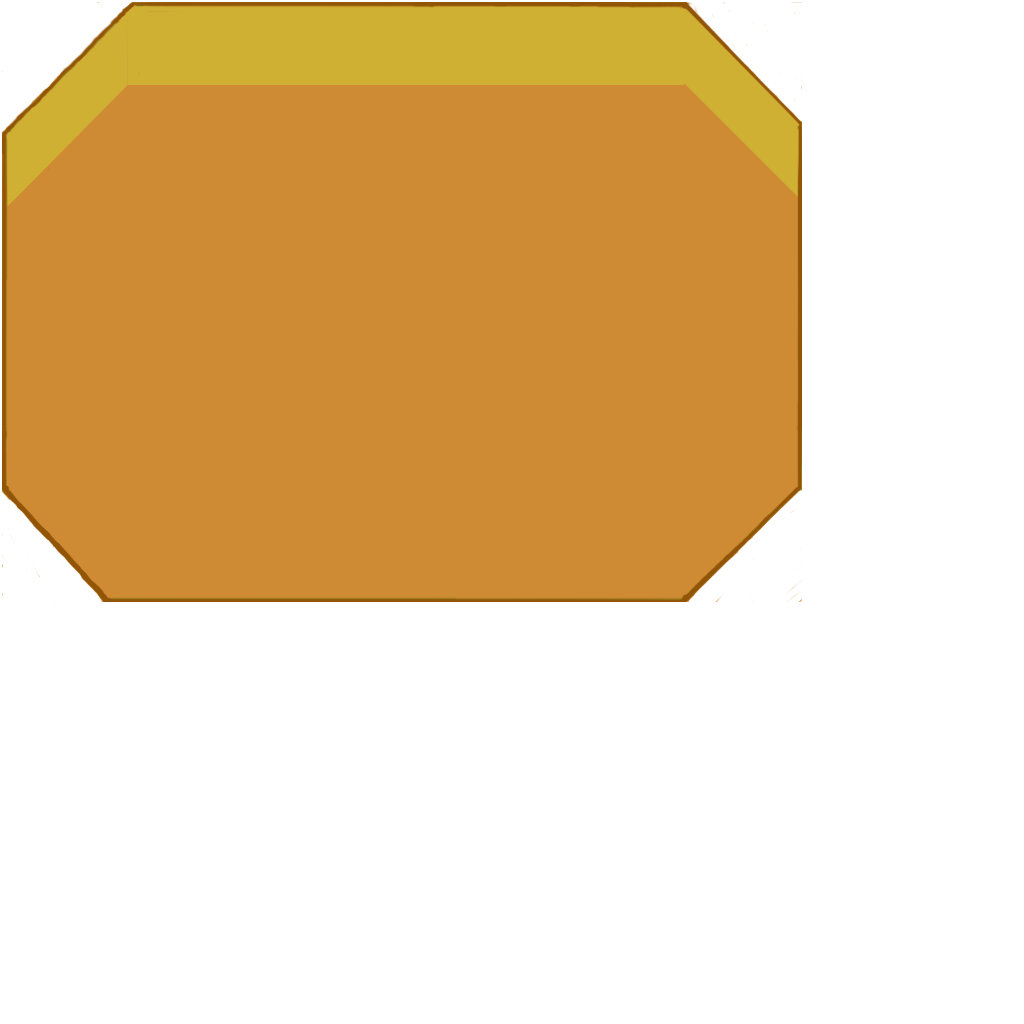
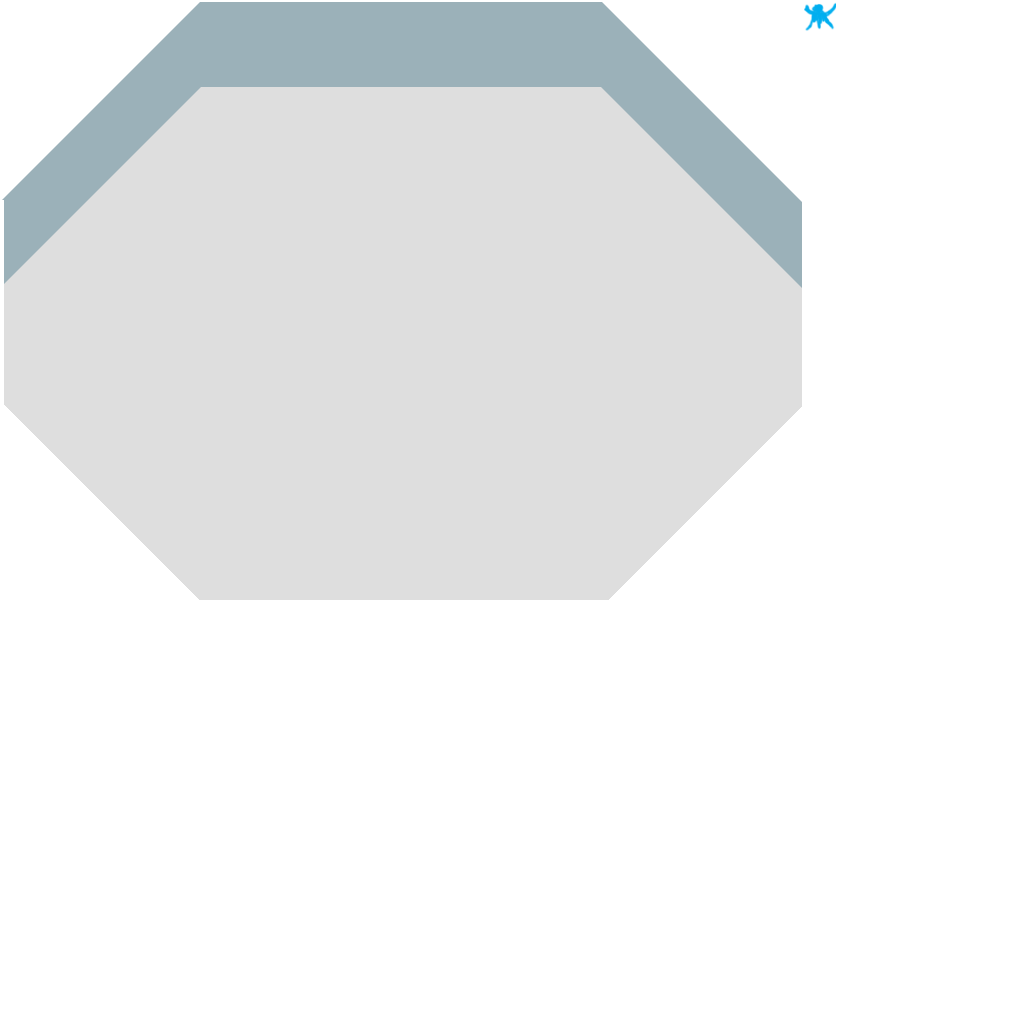
simple movement

diff --git a/Renderer.cpp b/Renderer.cpp
@@ -89,37 +89,36 @@ void Renderer::compileProgram(const GLchar *vertex, const GLchar *fragment, GLui
 }
 
 void Renderer::renderTexture(sf::FloatRect &bounds, Texture &texture, const std::string &regionName) {
-    
     Region *region = texture.getRegion(regionName);
     if (region != nullptr) {
-        glm::mat4 model;
-        model = glm::translate(model, glm::vec3(bounds.left, bounds.top, 0.0f));
-        model = glm::scale(model, glm::vec3(bounds.width, bounds.height, 0.0f));
-        GLint modelMat = glGetUniformLocation(shaderProgram, "mMatrix");
-        glUniformMatrix4fv(modelMat, 1, GL_FALSE, glm::value_ptr(model));
-        
-        float x = region->pos.x / texture.getWidth();
-        float y = region->pos.y / texture.getHeight();
-        float rx = (region->width + region->pos.x) / texture.getWidth();
-        float ry = (region->height + region->pos.y) / texture.getHeight();
-        GLfloat vertices[] = {
-            //  Position(2) Color(3)     Texcoords(2)
-            0.0f, 0.0f, 1.0f, 1.0f, 1.0f, x, y, // Top-left
-            1.0f, 0.0f, 1.0f, 1.0f, 1.0f, rx, y, // Top-right
-            1.0f, 1.0f, 1.0f, 1.0f, 1.0f, rx, ry, // Bottom-right
-            0.0f, 1.0f, 1.0f, 1.0f, 1.0f, x, ry  // Bottom-left
-        };
-        
-        glBindTexture(GL_TEXTURE_2D, texture.getTextureId());
-        glBindVertexArray(vao);
-        glBufferSubData(GL_ARRAY_BUFFER, 0, sizeof(vertices), vertices);
-        glDrawElements(GL_TRIANGLES, 6, GL_UNSIGNED_INT, 0);
-        glBindVertexArray(0);
+        renderTexture(bounds, texture, region);
     }
-    else {
-        // std::cout << "Could not find region by: " << regionName << std::endl;
-    }
-	
+}
+
+void Renderer::renderTexture(sf::FloatRect &bounds, Texture &texture, Region *region) {
+    glm::mat4 model;
+    model = glm::translate(model, glm::vec3(bounds.left, bounds.top, 0.0f));
+    model = glm::scale(model, glm::vec3(bounds.width, bounds.height, 0.0f));
+    GLint modelMat = glGetUniformLocation(shaderProgram, "mMatrix");
+    glUniformMatrix4fv(modelMat, 1, GL_FALSE, glm::value_ptr(model));
+    
+    float x = region->pos.x / texture.getWidth();
+    float y = region->pos.y / texture.getHeight();
+    float rx = (region->width + region->pos.x) / texture.getWidth();
+    float ry = (region->height + region->pos.y) / texture.getHeight();
+    GLfloat vertices[] = {
+        //  Position(2) Color(3)     Texcoords(2)
+        0.0f, 0.0f, 1.0f, 1.0f, 1.0f, x, y, // Top-left
+        1.0f, 0.0f, 1.0f, 1.0f, 1.0f, rx, y, // Top-right
+        1.0f, 1.0f, 1.0f, 1.0f, 1.0f, rx, ry, // Bottom-right
+        0.0f, 1.0f, 1.0f, 1.0f, 1.0f, x, ry  // Bottom-left
+    };
+    
+    glBindTexture(GL_TEXTURE_2D, texture.getTextureId());
+    glBindVertexArray(vao);
+    glBufferSubData(GL_ARRAY_BUFFER, 0, sizeof(vertices), vertices);
+    glDrawElements(GL_TRIANGLES, 6, GL_UNSIGNED_INT, 0);
+    glBindVertexArray(0);
 }
 
 void Renderer::setupBuffers() {

diff --git a/main.cpp b/main.cpp
@@ -12,6 +12,8 @@
 #include <Windows.h>
 #endif
 
+#include "Player.h"
+
 int main() {
 	sf::ContextSettings settings;
 	settings.minorVersion = 2;
@@ -34,7 +36,13 @@ int main() {
     atlas.readRegionsFromFile("atlas.json");
 
 	InputManager input;
+    input.bindAction(sf::Keyboard::Key::W, "up");
+    input.bindAction(sf::Keyboard::Key::A, "left");
+    input.bindAction(sf::Keyboard::Key::D, "right");
+    input.bindAction(sf::Keyboard::Key::S, "down");
 	sf::FloatRect bounds(0.0f, 0.0f, 800.0f, 600.0f);
+    
+    Player player(atlas);
 
 	while (window.isOpen()) {
 		sf::Event event;
@@ -57,9 +65,15 @@ int main() {
 				input.releaseKey(event.key.code);
 			}
 		}
+        
+        float time = clock.getElapsedTime().asSeconds();
+        
+        player.update(input, time);
 
 		renderer.beginFrame();
 		renderer.renderTexture(bounds, atlas, "RoomOne.png");
+        
+        player.render(renderer);
 
 		clock.restart();
 

diff --git a/InputManager.cpp b/InputManager.cpp
@@ -1,11 +1,11 @@
 #include "InputManager.h"
 
-void InputManager::bindAction(sf::Keyboard::Key &key, std::string action) {
+void InputManager::bindAction(const sf::Keyboard::Key &key, std::string action) {
 	m_map.insert(std::make_pair(key, action));
 	m_actions.insert(std::make_pair(action, false));
 }
 
-void InputManager::captureKey(sf::Keyboard::Key &key) {
+void InputManager::captureKey(const sf::Keyboard::Key &key) {
 	m_actions[m_map[key]] = true;
 }
 
@@ -13,6 +13,6 @@ bool InputManager::isActionPressed(std::string action) {
 	return m_actions[action];
 }
 
-void InputManager::releaseKey(sf::Keyboard::Key &key) {
+void InputManager::releaseKey(const sf::Keyboard::Key &key) {
 	m_actions[m_map[key]] = false;
 }

diff --git a/Player.h b/Player.h
@@ -1,0 +1,32 @@
+//
+//  Player.h
+//  TheHack
+//
+//  Created by Aaron McLeod on 2015-05-21.
+//  Copyright (c) 2015 Aaron McLeod. All rights reserved.
+//
+
+#ifndef __TheHack__Player__
+#define __TheHack__Player__
+
+#include <stdio.h>
+
+#include "GameObject.h"
+#include "Texture.h"
+
+class Player : public GameObject {
+public:
+    Player(Texture &texture) {
+        textureRegion = texture.getRegion("player.png");
+        bounds = sf::FloatRect(200, 200, 32, 32);
+        speed = 250.0f;
+    }
+    
+    virtual void render(Renderer &renderer);
+    virtual void update(InputManager &im, float time);
+private:
+    float speed;
+    Region *textureRegion;
+};
+
+#endif /* defined(__TheHack__Player__) */

diff --git a/Player.cpp b/Player.cpp
@@ -1,0 +1,28 @@
+//
+//  Player.cpp
+//  TheHack
+//
+//  Created by Aaron McLeod on 2015-05-21.
+//  Copyright (c) 2015 Aaron McLeod. All rights reserved.
+//
+
+#include "Player.h"
+
+void Player::render(Renderer &renderer) {
+    renderer.renderTexture(bounds, *textureRegion->texture, textureRegion);
+}
+
+void Player::update(InputManager &im, float time) {
+    if (im.isActionPressed("up")) {
+        bounds.top -= speed * time;
+    }
+    else if (im.isActionPressed("down")) {
+        bounds.top += speed * time;
+    }
+    if (im.isActionPressed("left")) {
+        bounds.left -= speed * time;
+    }
+    else if (im.isActionPressed("right")) {
+        bounds.left += speed * time;
+    }
+}

diff --git a/InputManager.h b/InputManager.h
@@ -9,9 +9,9 @@
 class InputManager {
 public:
 	InputManager() {}
-	void bindAction(sf::Keyboard::Key &key, std::string actionName);
-	void captureKey(sf::Keyboard::Key &key);
-	void releaseKey(sf::Keyboard::Key &key);
+	void bindAction(const sf::Keyboard::Key &key, std::string actionName);
+	void captureKey(const sf::Keyboard::Key &key);
+	void releaseKey(const sf::Keyboard::Key &key);
 
 	bool isActionPressed(std::string action);
 private:

diff --git a/GameObject.h b/GameObject.h
@@ -1,0 +1,17 @@
+#ifndef __TheHack_GameObject__
+#define __TheHack_GameObject__
+
+#include <stdio.h>
+#include "Renderer.h"
+#include <SFML/Graphics.hpp>
+#include "InputManager.h"
+
+class GameObject {
+public:
+    virtual void render(Renderer &renderer) {};
+    virtual void update(InputManager &im, const float time) {};
+protected:
+    sf::FloatRect bounds;
+};
+
+#endif /* defined(__MyPongClone__GameObject__) */

diff --git a/Renderer.h b/Renderer.h
@@ -26,6 +26,7 @@ public:
 	void cleanup();
 	void compileProgram(const GLchar *vertex, const GLchar *fragment, GLuint &vertexShader, GLuint &fragmentShader, GLuint &shaderProgram);
     void renderTexture(sf::FloatRect &bounds, Texture &texture, const std::string &regionName);
+    void renderTexture(sf::FloatRect &bounds, Texture &texture, Region *region);
 	void setupBuffers();
 	void setupShader();
 private:

diff --git a/Texture.cpp b/Texture.cpp
@@ -47,6 +47,7 @@ void Texture::readRegionsFromFile(const std::string &fileName) {
         region->pos = sf::Vector2f(frameDetails["x"].asInt(), frameDetails["y"].asInt());
         region->width = frameDetails["w"].asInt();
         region->height = frameDetails["h"].asInt();
+        region->texture = this;
         regions.push_back(region);
     }
 }

diff --git a/Texture.h b/Texture.h
@@ -4,11 +4,14 @@
 #ifndef __TheHack_Texture__
 #define __TheHack_Texture__
 
+class Texture;
+
 struct Region {
     std::string name;
     sf::Vector2f pos;
     float width;
     float height;
+    Texture *texture;
 };
 
 class Texture {

diff --git a/GameObject.cpp b/GameObject.cpp
@@ -1,0 +1,9 @@
+//
+//  GameObject.cpp
+//  MyPongClone
+//
+//  Created by Aaron McLeod on 2015-05-06.
+//  Copyright (c) 2015 Aaron McLeod. All rights reserved.
+//
+
+#include "GameObject.h"
